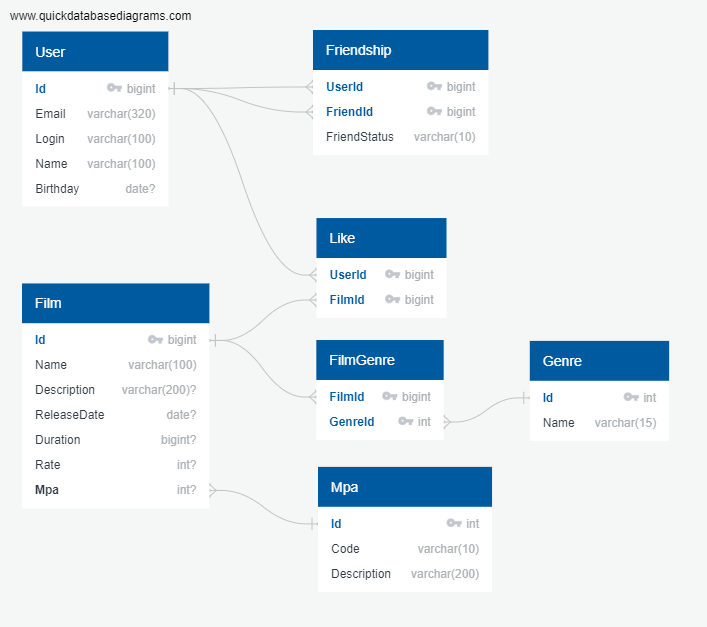
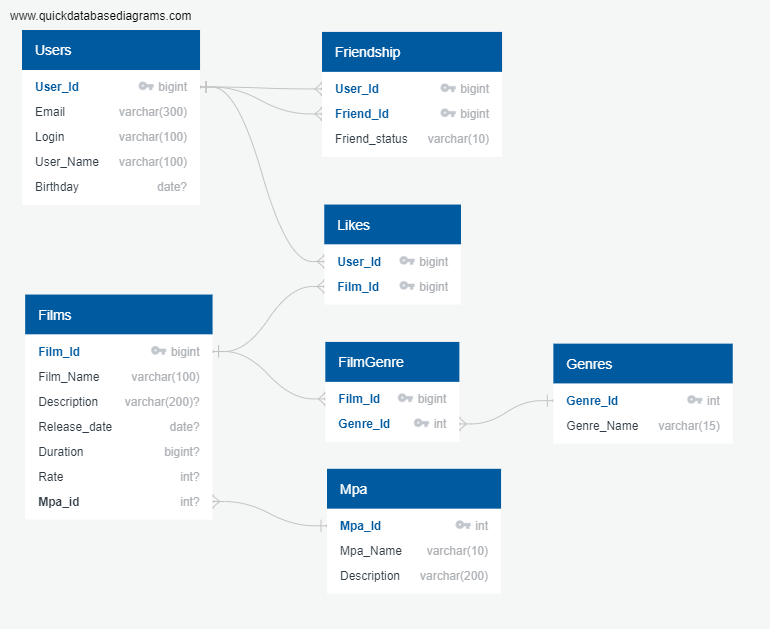
style: Обновлен readme

diff --git a/README.md b/README.md
@@ -1,8 +1,8 @@
 # Filmorate
-![Postgres](https://img.shields.io/badge/postgres-%23316192.svg?style=for-the-badge&logo=postgresql&logoColor=white)
-![Java](https://img.shields.io/badge/java-%23ED8B00.svg?style=for-the-badge&logo=java&logoColor=white)
-![Apache Maven](https://img.shields.io/badge/Apache%20Maven-C71A36?style=for-the-badge&logo=Apache%20Maven&logoColor=white)
-![Spring](https://img.shields.io/badge/spring-%236DB33F.svg?style=for-the-badge&logo=spring&logoColor=white)
+![](https://img.shields.io/badge/database-H2Database-blue)
+![](https://img.shields.io/badge/language-Java-orange)
+![](https://img.shields.io/badge/build_automation_tool-Maven-red)
+![](https://img.shields.io/badge/framework-Spring_boot-green)
 
 ### Описание
 
@@ -35,7 +35,22 @@
             <li>Выводить информацию о конкретном фильме;</li>
             <li>Ставить лайки;</li>
             <li>Удалять лайки;</li>
+            <li>Изменять жанры и рейтинг фильмов Киноассоциации</li>
             <li>Выводить Х-топ популярных фильмов.</li></ul>
+        </td>
+    </tr>
+    <tr>
+      <th><b><img alt="img_1.png" height="15" src="img1.png"/> С жанрами фильмов</b></th>
+      <th><b><img alt="img_1.png" height="15" src="img1.png"/> С рейтингами фильмов Киноассоциации</b></th>
+    </tr>
+    <tr>
+        <td>
+            <ul><li>Выводить список всех жанров;</li>
+            <li>Выводить информацию о конкретном жанре;</li></ul>
+        </td>
+        <td>
+            <ul><li>Выводить список всех рейтингов;</li>
+            <li>Выводить информацию о конкретном рейтинге;</li></ul>
         </td>
     </tr>
   </tbody>
@@ -60,25 +75,28 @@ Swagger API можно нати по ссылке http://localhost:8080/swagger-
 #### Примеры SQL-запросов
 ##### Получение всех фильмов
 <pre>
-    <code>SELECT * 
-    FROM film</code>
+    <code>SELECT f.*, m.mpa_name
+    FROM films f
+    JOIN mpa m ON f.mpa_id = m.mpa_id
+    ORDER BY f.film_id;</code>
 </pre>
 
 ##### Получение топ 10 фильмов
 <pre>
-    <code>SELECT f.*
-    FROM film f
-    JOIN like l ON f.id=l.filmid
-    GROUP BY l.filmid
-    ORDER BY COUNT(l.userid) DESC
-    LIMIT 10</code>
+    <code>SELECT f.*, m.mpa_name
+    FROM films f
+    JOIN mpa m ON f.mpa_id = m.mpa_id
+    LEFT JOIN likes l ON f.film_id = l.film_id
+    GROUP BY l.film_id, f.film_id
+    ORDER BY COUNT(l.user_id) DESC, f.film_id DESC
+    LIMIT 10;</code>
 </pre>
 
 ##### Получение названий жанров для фильма №2
 <pre>
-    <code>SELECT f.name, g.name
+    <code>SELECT f.film_name, g.genre_name
     FROM genre g
-    JOIN filmgenre fg ON g.id=fg.genreid
-    JOIN film f ON fg.filmid=f.id
-    WHERE f.id=2</code>
+    JOIN film_genre fg ON g.genre_id=fg.genre_id
+    RIGHT JOIN film f ON fg.film_id=f.film_id
+    WHERE f.film_id=2</code>
 </pre>
